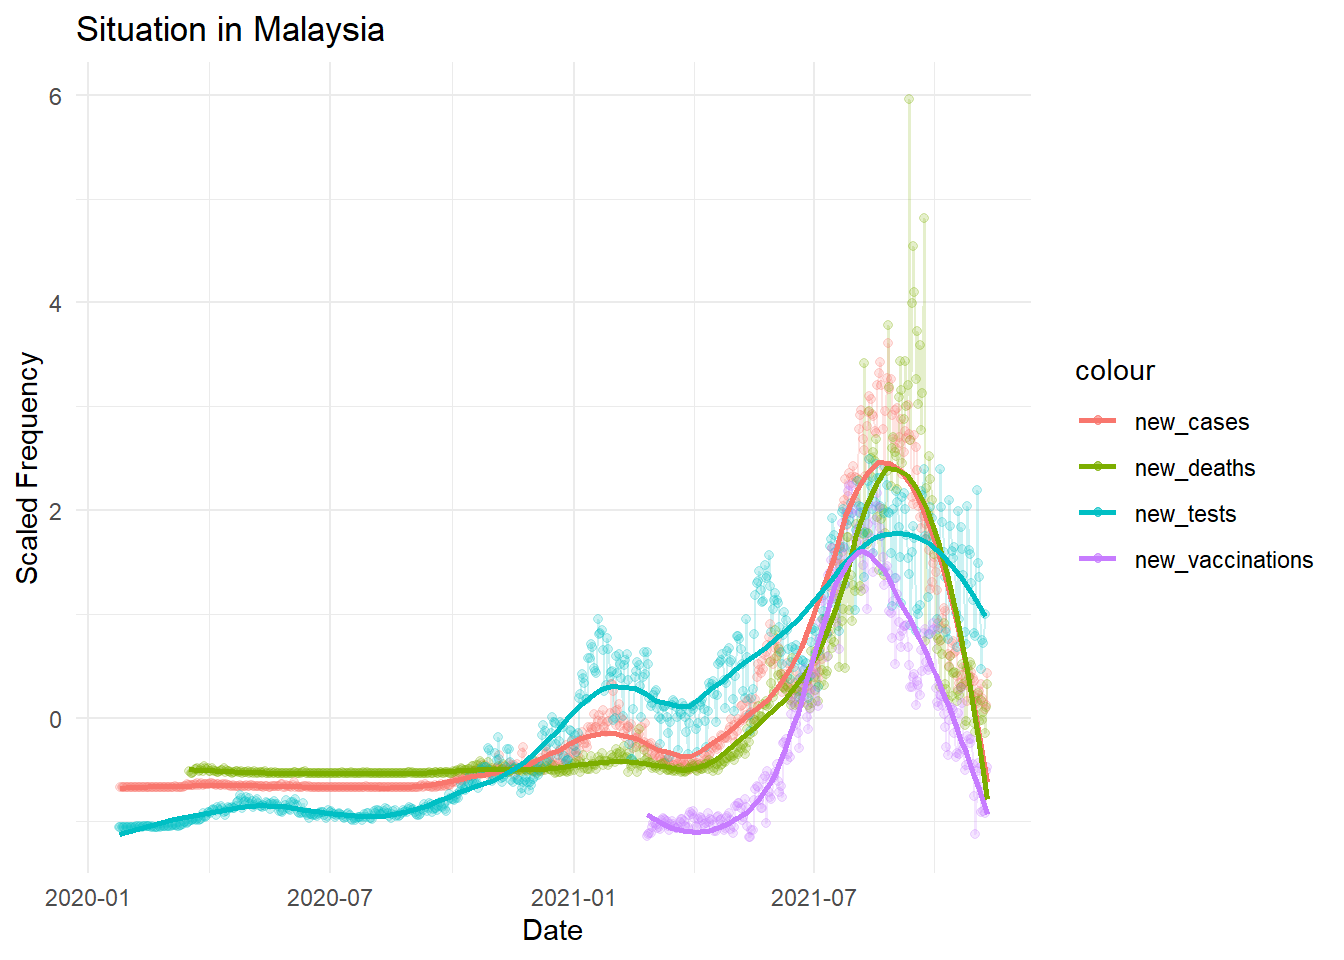
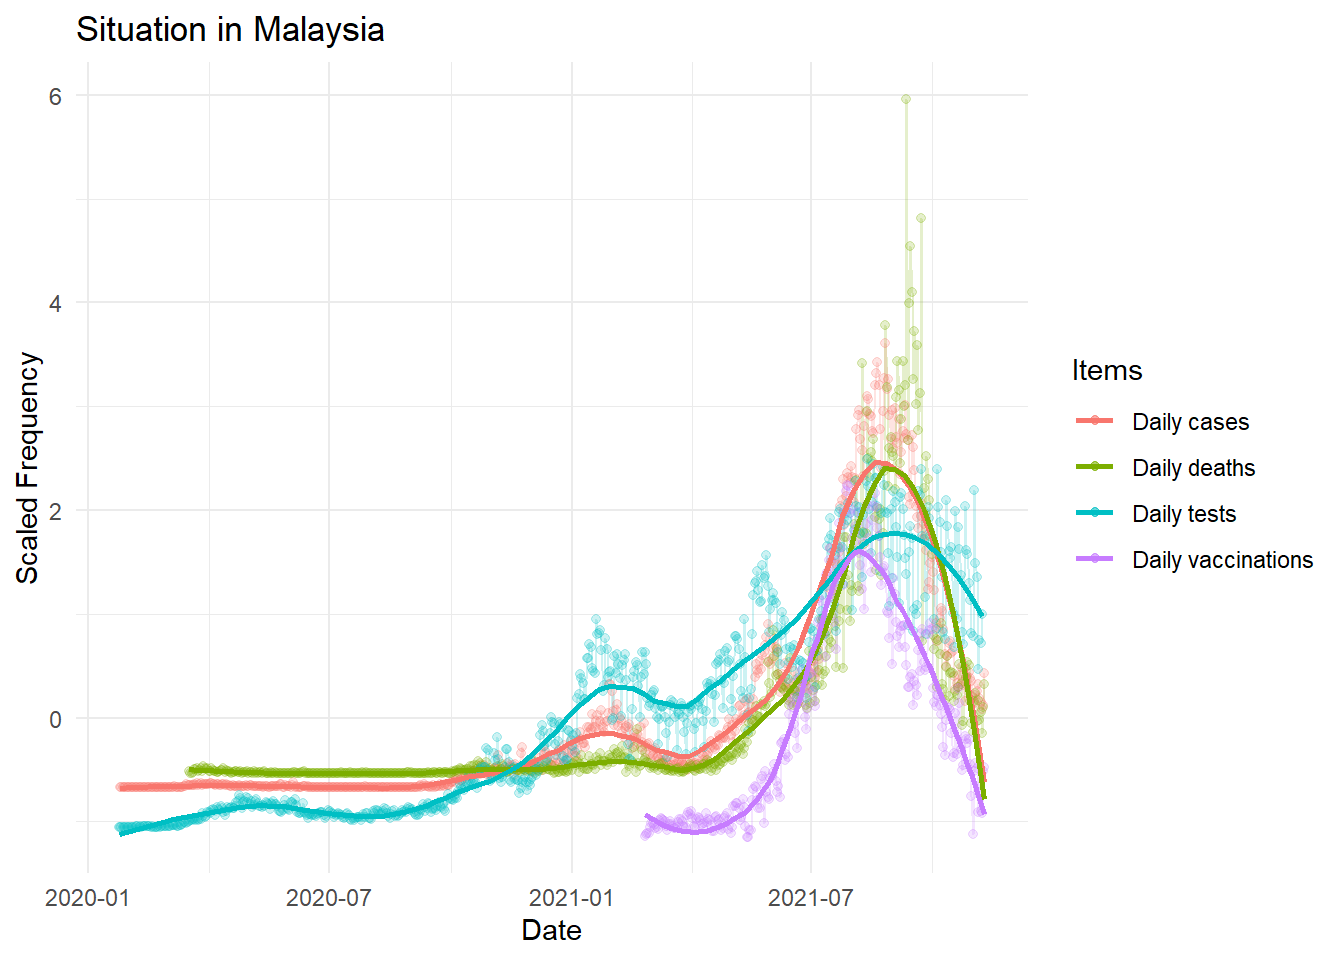
New post - covid-sea (also update legend)

diff --git a/content/post/2021-11-10-some-covid-19-plots-for-southeast-asian-countries/index.en.html b/content/post/2021-11-10-some-covid-19-plots-for-southeast-asian-countries/index.en.html
@@ -104,12 +104,15 @@ covid_sea &lt;- read_csv(&quot;https://raw.githubusercontent.com/tengku-hanis/da
   geom_smooth(aes(y = new_deaths, color = &quot;new_deaths&quot;), se = F, span = 0.3) +
   geom_smooth(aes(y = new_tests, color = &quot;new_tests&quot;), se = F, span = 0.3) +
   geom_smooth(aes(y = new_vaccinations, color = &quot;new_vaccinations&quot;), se = F, span = 0.6) +
-  labs(title = &quot;Situation in Malaysia&quot;, fill = &quot;Metrics/items&quot;) +
-  scale_fill_discrete(labels = c(&quot;Daily cases&quot;, &quot;Daily deaths&quot;, &quot;Daily tests&quot;, &quot;Daily vaccinations&quot;)) +
+  labs(title = &quot;Situation in Malaysia&quot;) +
   ylab(&quot;Scaled Frequency&quot;) +
   xlab(&quot;Date&quot;) +
+  guides(color = guide_legend(&quot;Items&quot;)) +
+  scale_color_discrete(labels = c(&quot;Daily cases&quot;, &quot;Daily deaths&quot;, &quot;Daily tests&quot;, &quot;Daily vaccinations&quot;)) +
   theme_minimal()</code></pre>
 <p><img src="{{< blogdown/postref >}}index.en_files/figure-html/unnamed-chunk-7-1.png" width="672" /></p>
 <p>Interestingly, as the vaccination increased up to a certain threshold, number of daily cases and daily deaths started decresed as well. Obviously, the daily testing also decreased as in Malaysia, COVID-19 testing is done based on suspected cases instead of mass testing.</p>
-<p>Disclaimer: Please take anything written here with a massive grain of salt.</p>
+<p><em>Disclaimer: Please take anything written here with a massive grain of salt.</em></p>
+<p>Data source:
+<a href="https://github.com/owid/covid-19-data/tree/master/public/data" class="uri">https://github.com/owid/covid-19-data/tree/master/public/data</a></p>
 </div>
